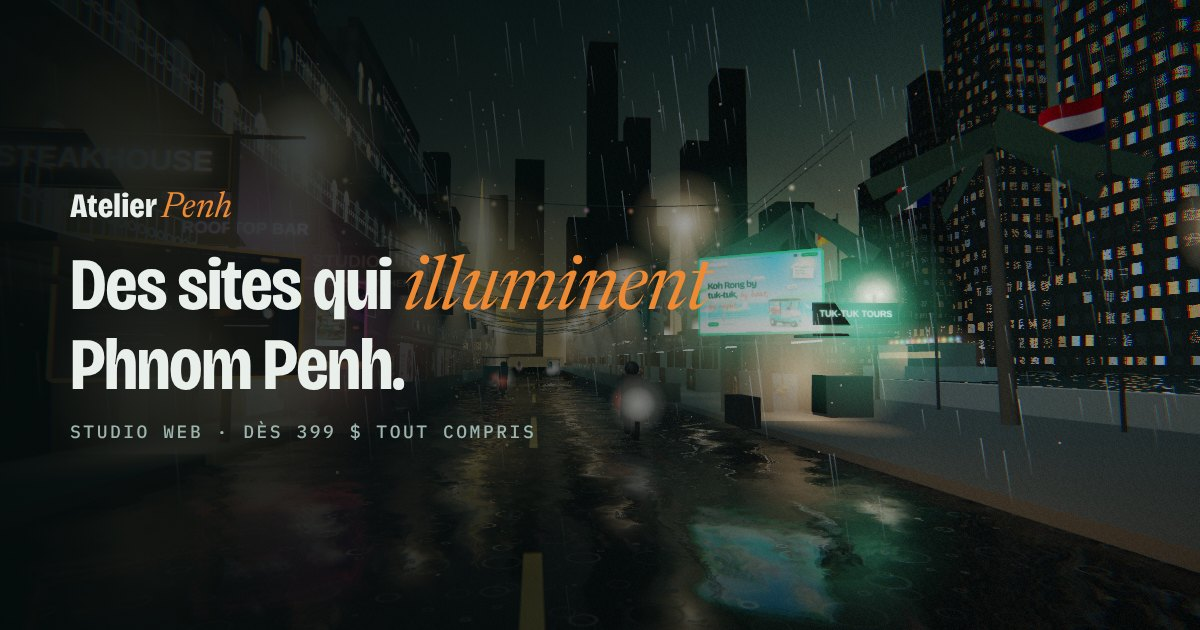
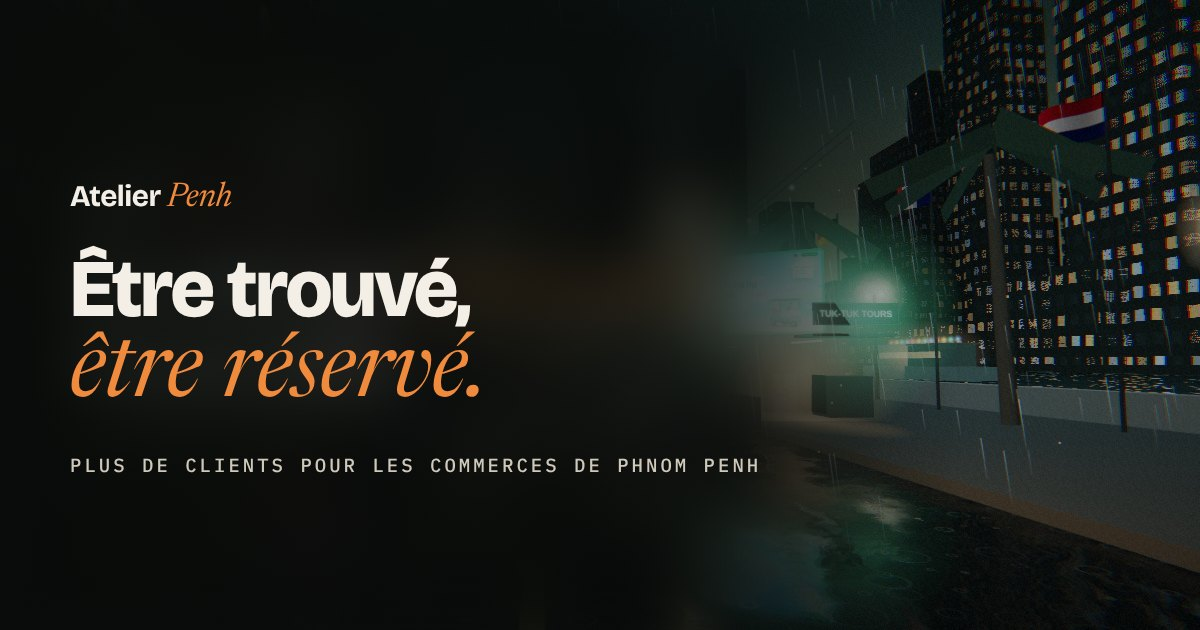
Images d'aperçu sans prix + titres orientés clients (pages restaurant, hôtel, boutique), validés par Vincent le 22/10
Claude-Session: https://claude.ai/code/session_01URx4f1zmQhdK7DD2G4bkNv

diff --git a/restaurant-website-phnom-penh.html b/restaurant-website-phnom-penh.html
@@ -3,8 +3,8 @@
 <head>
 <meta charset="utf-8">
 <meta name="viewport" content="width=device-width,initial-scale=1,viewport-fit=cover">
-<title>Restaurant Website Design in Phnom Penh · Atelier Penh</title>
-<meta name="description" content="Restaurant websites in Phnom Penh: a menu that reads well on a phone, table requests sent to WhatsApp or Telegram, Google Maps and hours. From $399, all-in.">
+<title>More table bookings for Phnom Penh restaurants · Website design</title>
+<meta name="description" content="Guests find you on Google, read your menu on their phone and send a table request straight to your WhatsApp or Telegram. Free preview first, no monthly fees.">
 <link rel="canonical" href="https://atelierpenh.com/restaurant-website-phnom-penh">
 <link rel="alternate" hreflang="en" href="https://atelierpenh.com/restaurant-website-phnom-penh">
 <link rel="alternate" hreflang="fr" href="https://atelierpenh.com/site-restaurant-phnom-penh">
@@ -13,8 +13,8 @@
 <meta name="theme-color" content="#132A28">
 <meta property="og:type" content="website">
 <meta property="og:site_name" content="Atelier Penh">
-<meta property="og:title" content="Restaurant Website Design in Phnom Penh · Atelier Penh">
-<meta property="og:description" content="Restaurant websites in Phnom Penh: a menu that reads well on a phone, table requests sent to WhatsApp or Telegram, Google Maps and hours. From $399, all-in.">
+<meta property="og:title" content="More table bookings for Phnom Penh restaurants · Website design">
+<meta property="og:description" content="Guests find you on Google, read your menu on their phone and send a table request straight to your WhatsApp or Telegram. Free preview first, no monthly fees.">
 <meta property="og:url" content="https://atelierpenh.com/restaurant-website-phnom-penh">
 <meta property="og:image" content="https://atelierpenh.com/og.jpg">
 <meta property="og:locale" content="en_US">

diff --git a/boutique-website-phnom-penh.html b/boutique-website-phnom-penh.html
@@ -3,8 +3,8 @@
 <head>
 <meta charset="utf-8">
 <meta name="viewport" content="width=device-width,initial-scale=1,viewport-fit=cover">
-<title>Boutique Website Design in Phnom Penh · Atelier Penh</title>
-<meta name="description" content="Websites for Phnom Penh boutiques and fashion labels: collections, lookbook, fitting appointments on WhatsApp, optional ABA PayWay deposit. From $399, all-in.">
+<title>More customers for Phnom Penh boutiques · Website design</title>
+<meta name="description" content="Shoppers find your collections on Google and book a fitting on WhatsApp, with an optional ABA PayWay deposit. Free preview first, no monthly fees.">
 <link rel="canonical" href="https://atelierpenh.com/boutique-website-phnom-penh">
 <link rel="alternate" hreflang="en" href="https://atelierpenh.com/boutique-website-phnom-penh">
 <link rel="alternate" hreflang="fr" href="https://atelierpenh.com/site-boutique-phnom-penh">
@@ -13,8 +13,8 @@
 <meta name="theme-color" content="#132A28">
 <meta property="og:type" content="website">
 <meta property="og:site_name" content="Atelier Penh">
-<meta property="og:title" content="Boutique Website Design in Phnom Penh · Atelier Penh">
-<meta property="og:description" content="Websites for Phnom Penh boutiques and fashion labels: collections, lookbook, fitting appointments on WhatsApp, optional ABA PayWay deposit. From $399, all-in.">
+<meta property="og:title" content="More customers for Phnom Penh boutiques · Website design">
+<meta property="og:description" content="Shoppers find your collections on Google and book a fitting on WhatsApp, with an optional ABA PayWay deposit. Free preview first, no monthly fees.">
 <meta property="og:url" content="https://atelierpenh.com/boutique-website-phnom-penh">
 <meta property="og:image" content="https://atelierpenh.com/og.jpg">
 <meta property="og:locale" content="en_US">

diff --git a/hotel-website-phnom-penh.html b/hotel-website-phnom-penh.html
@@ -3,8 +3,8 @@
 <head>
 <meta charset="utf-8">
 <meta name="viewport" content="width=device-width,initial-scale=1,viewport-fit=cover">
-<title>Hotel Website Design in Phnom Penh · Atelier Penh</title>
-<meta name="description" content="Websites for Phnom Penh boutique hotels and guesthouses: room pages, direct booking requests on WhatsApp or Telegram, several languages. Free preview first.">
+<title>More direct bookings for Phnom Penh hotels · Website design</title>
+<meta name="description" content="Guests who find you on Google book direct on WhatsApp or Telegram, with no platform commission. Room pages in several languages. Free preview first.">
 <link rel="canonical" href="https://atelierpenh.com/hotel-website-phnom-penh">
 <link rel="alternate" hreflang="en" href="https://atelierpenh.com/hotel-website-phnom-penh">
 <link rel="alternate" hreflang="fr" href="https://atelierpenh.com/site-hotel-phnom-penh">
@@ -13,8 +13,8 @@
 <meta name="theme-color" content="#132A28">
 <meta property="og:type" content="website">
 <meta property="og:site_name" content="Atelier Penh">
-<meta property="og:title" content="Hotel Website Design in Phnom Penh · Atelier Penh">
-<meta property="og:description" content="Websites for Phnom Penh boutique hotels and guesthouses: room pages, direct booking requests on WhatsApp or Telegram, several languages. Free preview first.">
+<meta property="og:title" content="More direct bookings for Phnom Penh hotels · Website design">
+<meta property="og:description" content="Guests who find you on Google book direct on WhatsApp or Telegram, with no platform commission. Room pages in several languages. Free preview first.">
 <meta property="og:url" content="https://atelierpenh.com/hotel-website-phnom-penh">
 <meta property="og:image" content="https://atelierpenh.com/og.jpg">
 <meta property="og:locale" content="en_US">
